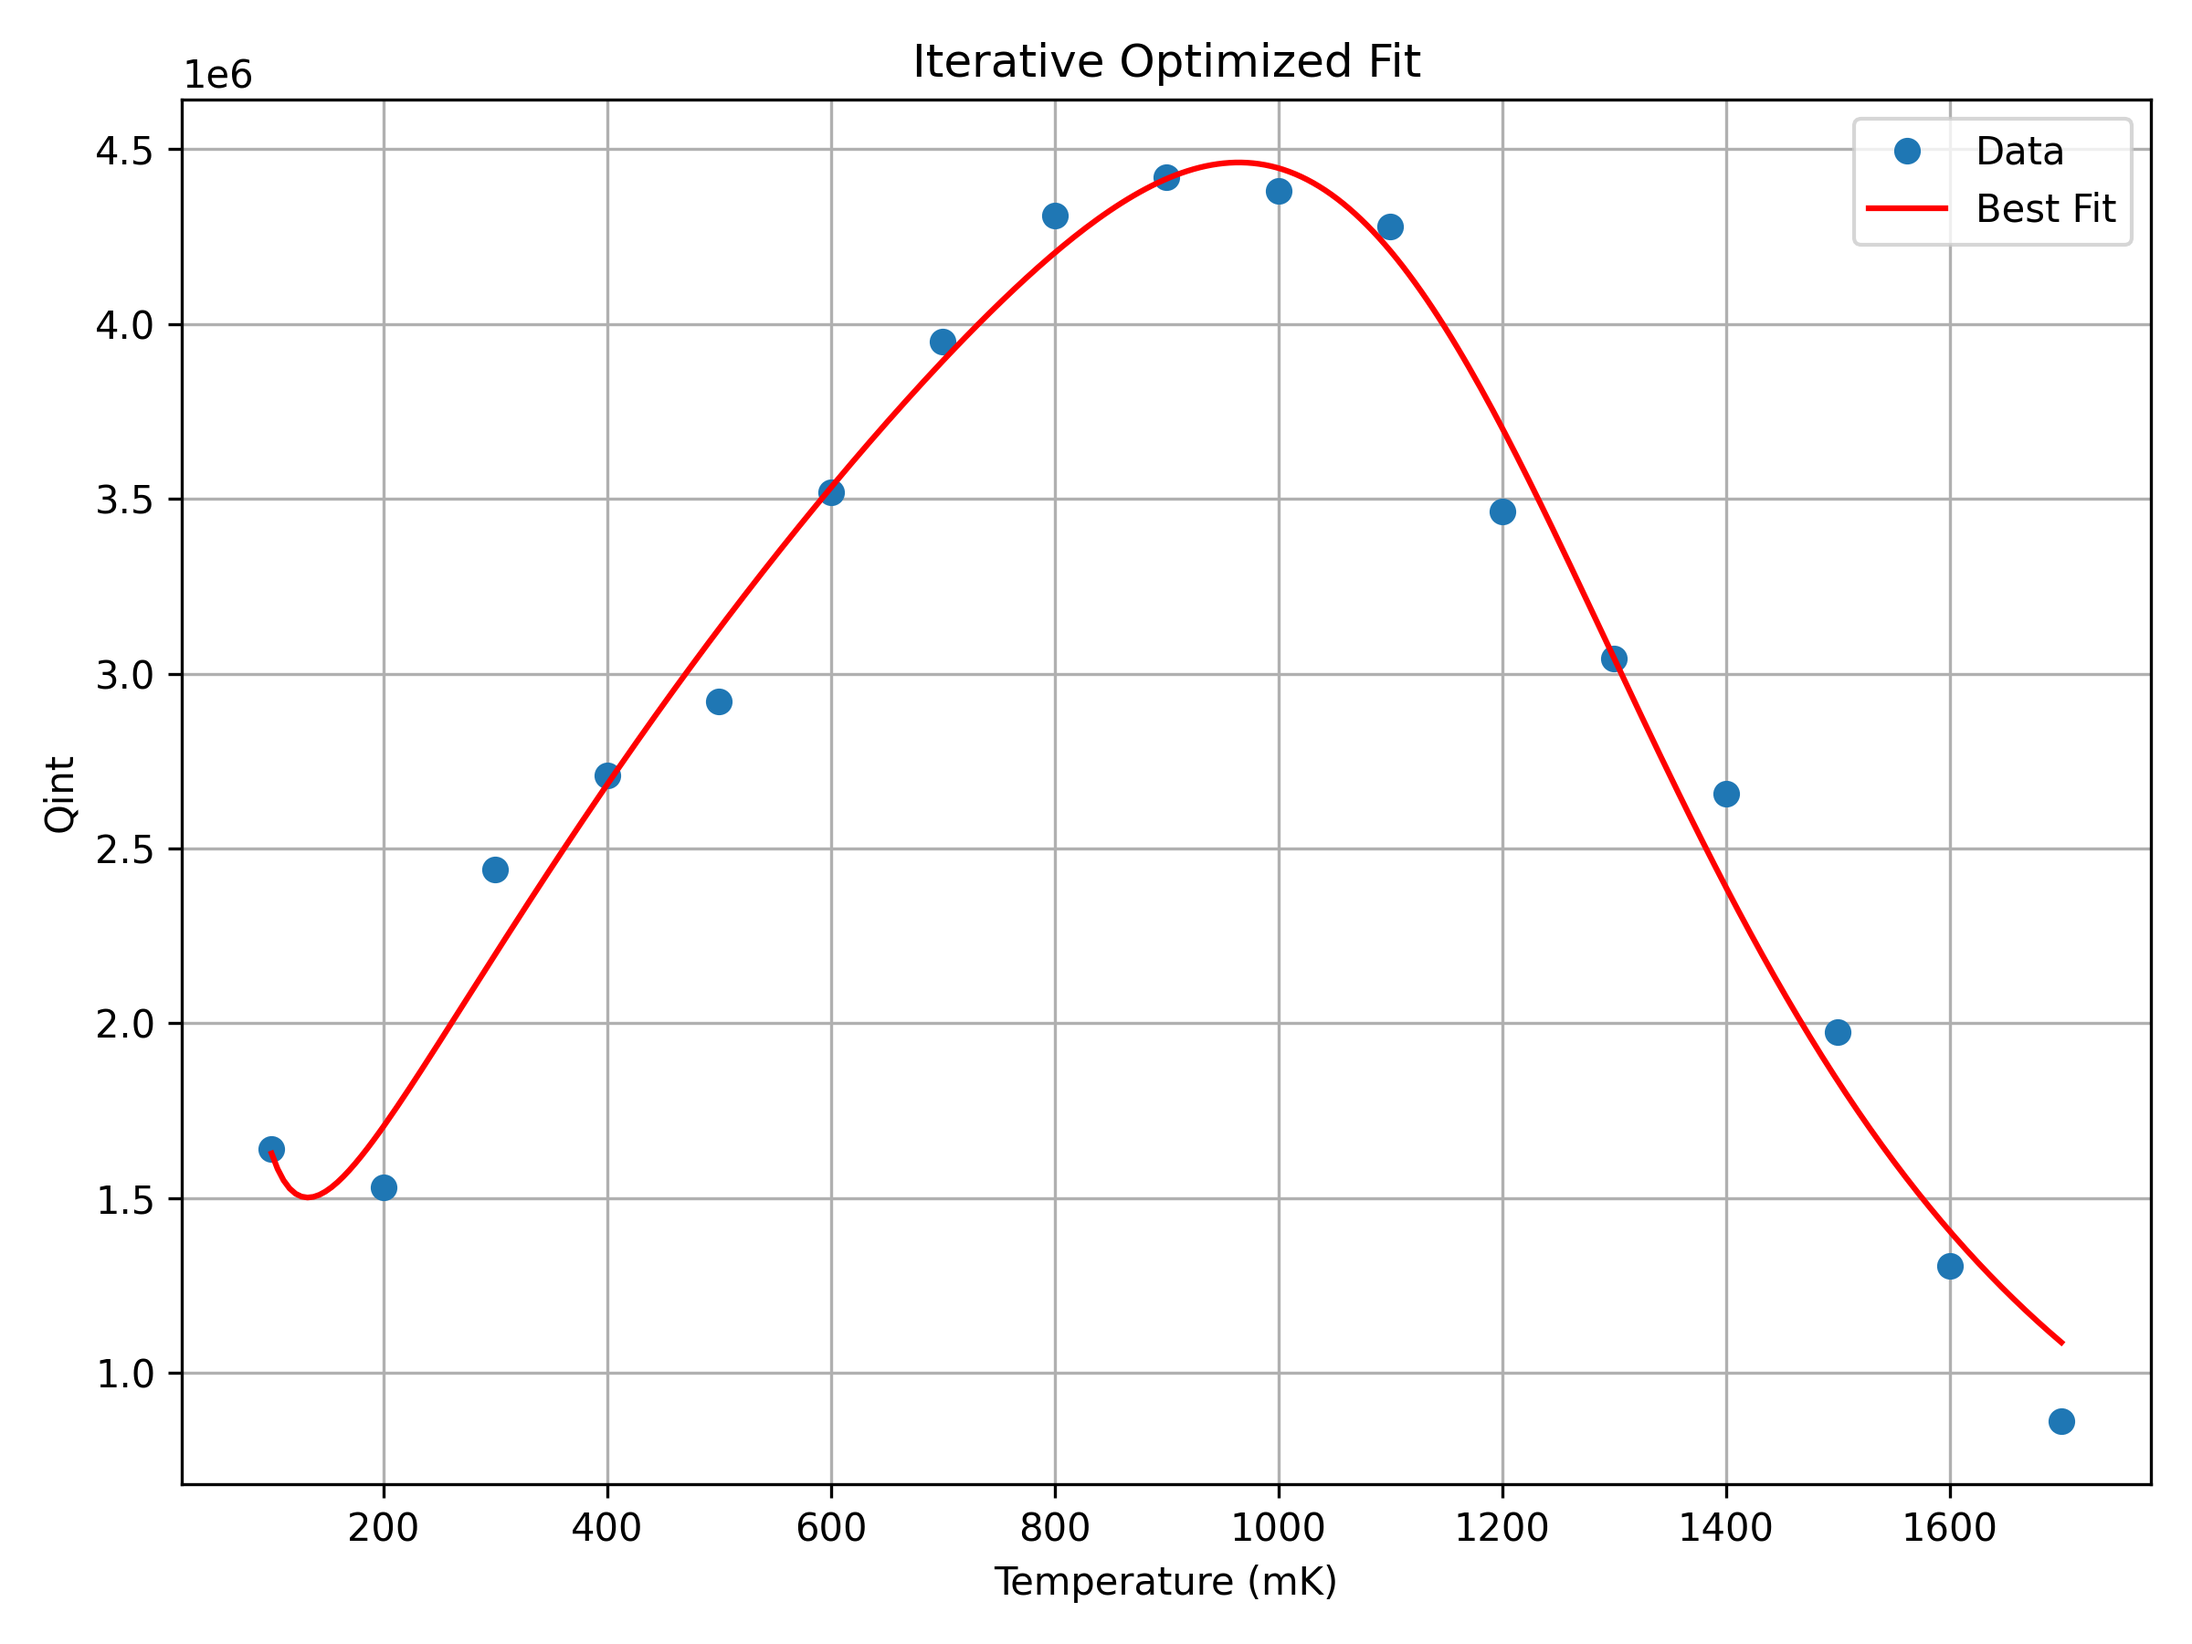
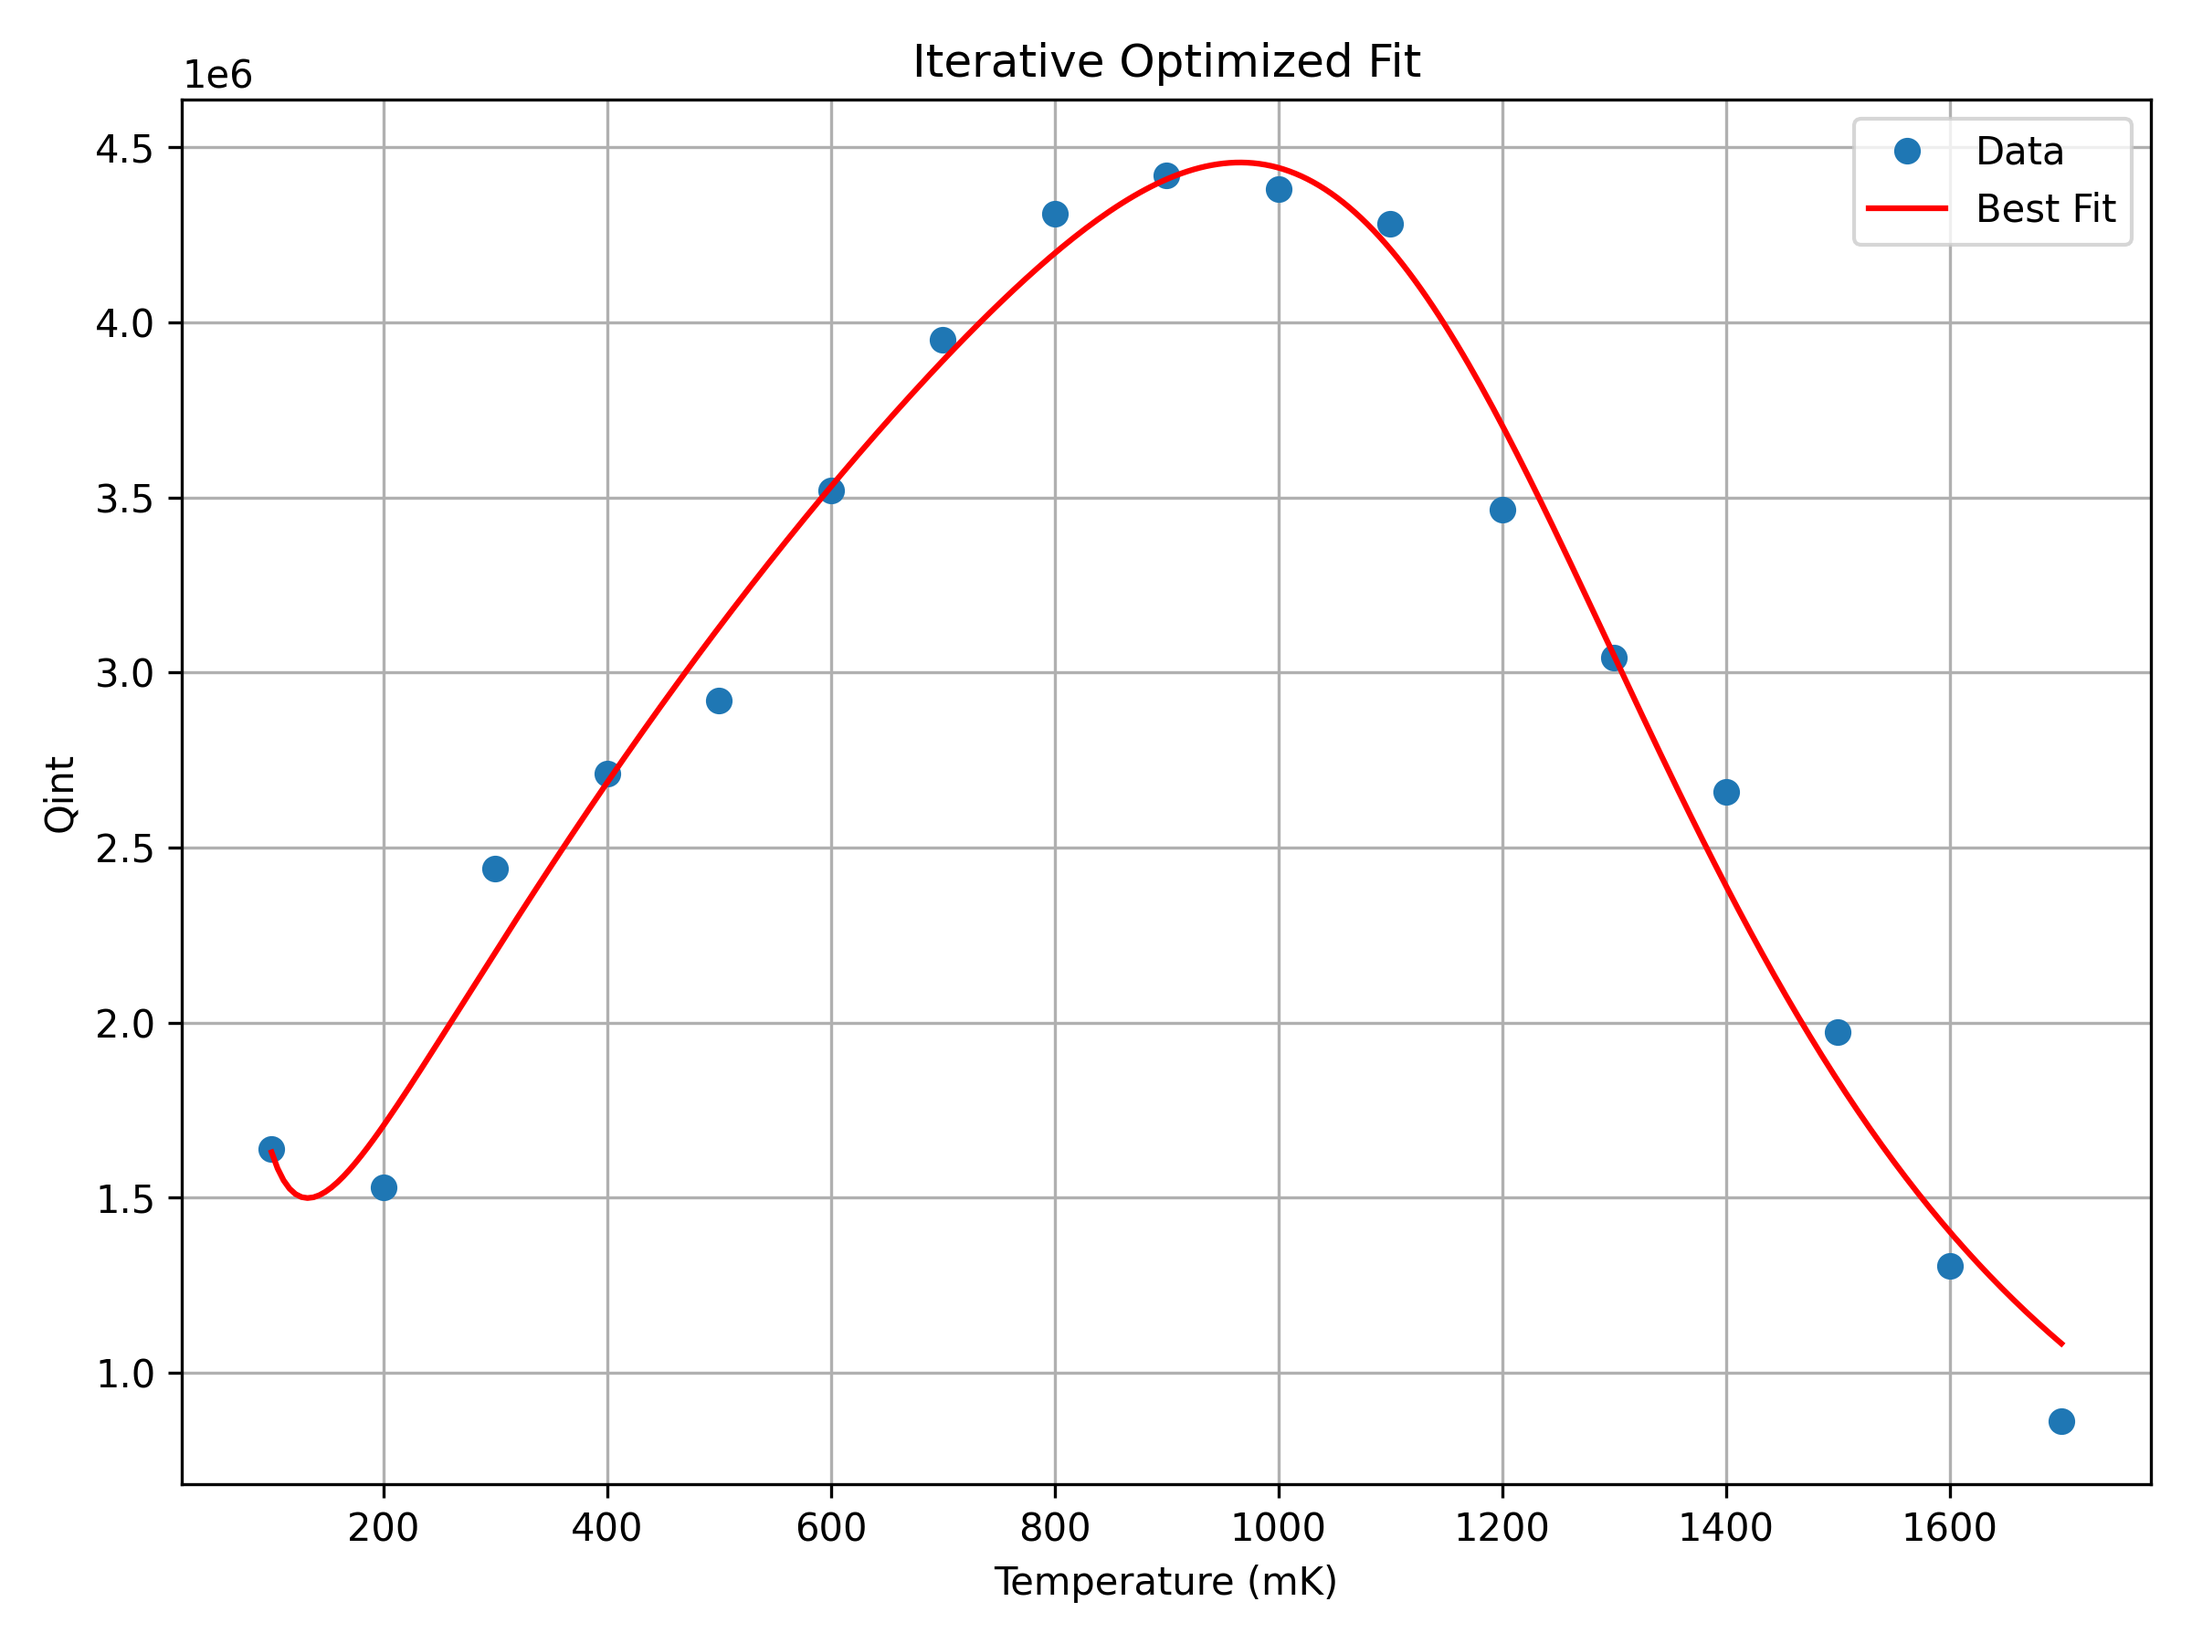
Apply local updates after pulling origin/main

diff --git a/cpwfit/models/qint_singlecurve.py b/cpwfit/models/qint_singlecurve.py
@@ -44,7 +44,7 @@ def load_data(filename):
 def Q_TLS(T, Q_TLS_0, beta1, beta2, D):
     omega = 2 * np.pi * f_res
     arg = hbar * omega / (2 * kB * T)
-    numerator = np.sqrt(1 + (NBAR_CONST * beta2 / (D * T**beta1)) * np.tanh(arg))
+    numerator = np.sqrt(1 + (NBAR_CONST ** beta2 / (D * T**beta1)) * np.tanh(arg))
     denominator = np.tanh(arg)
     return Q_TLS_0 * (numerator / denominator)
 
